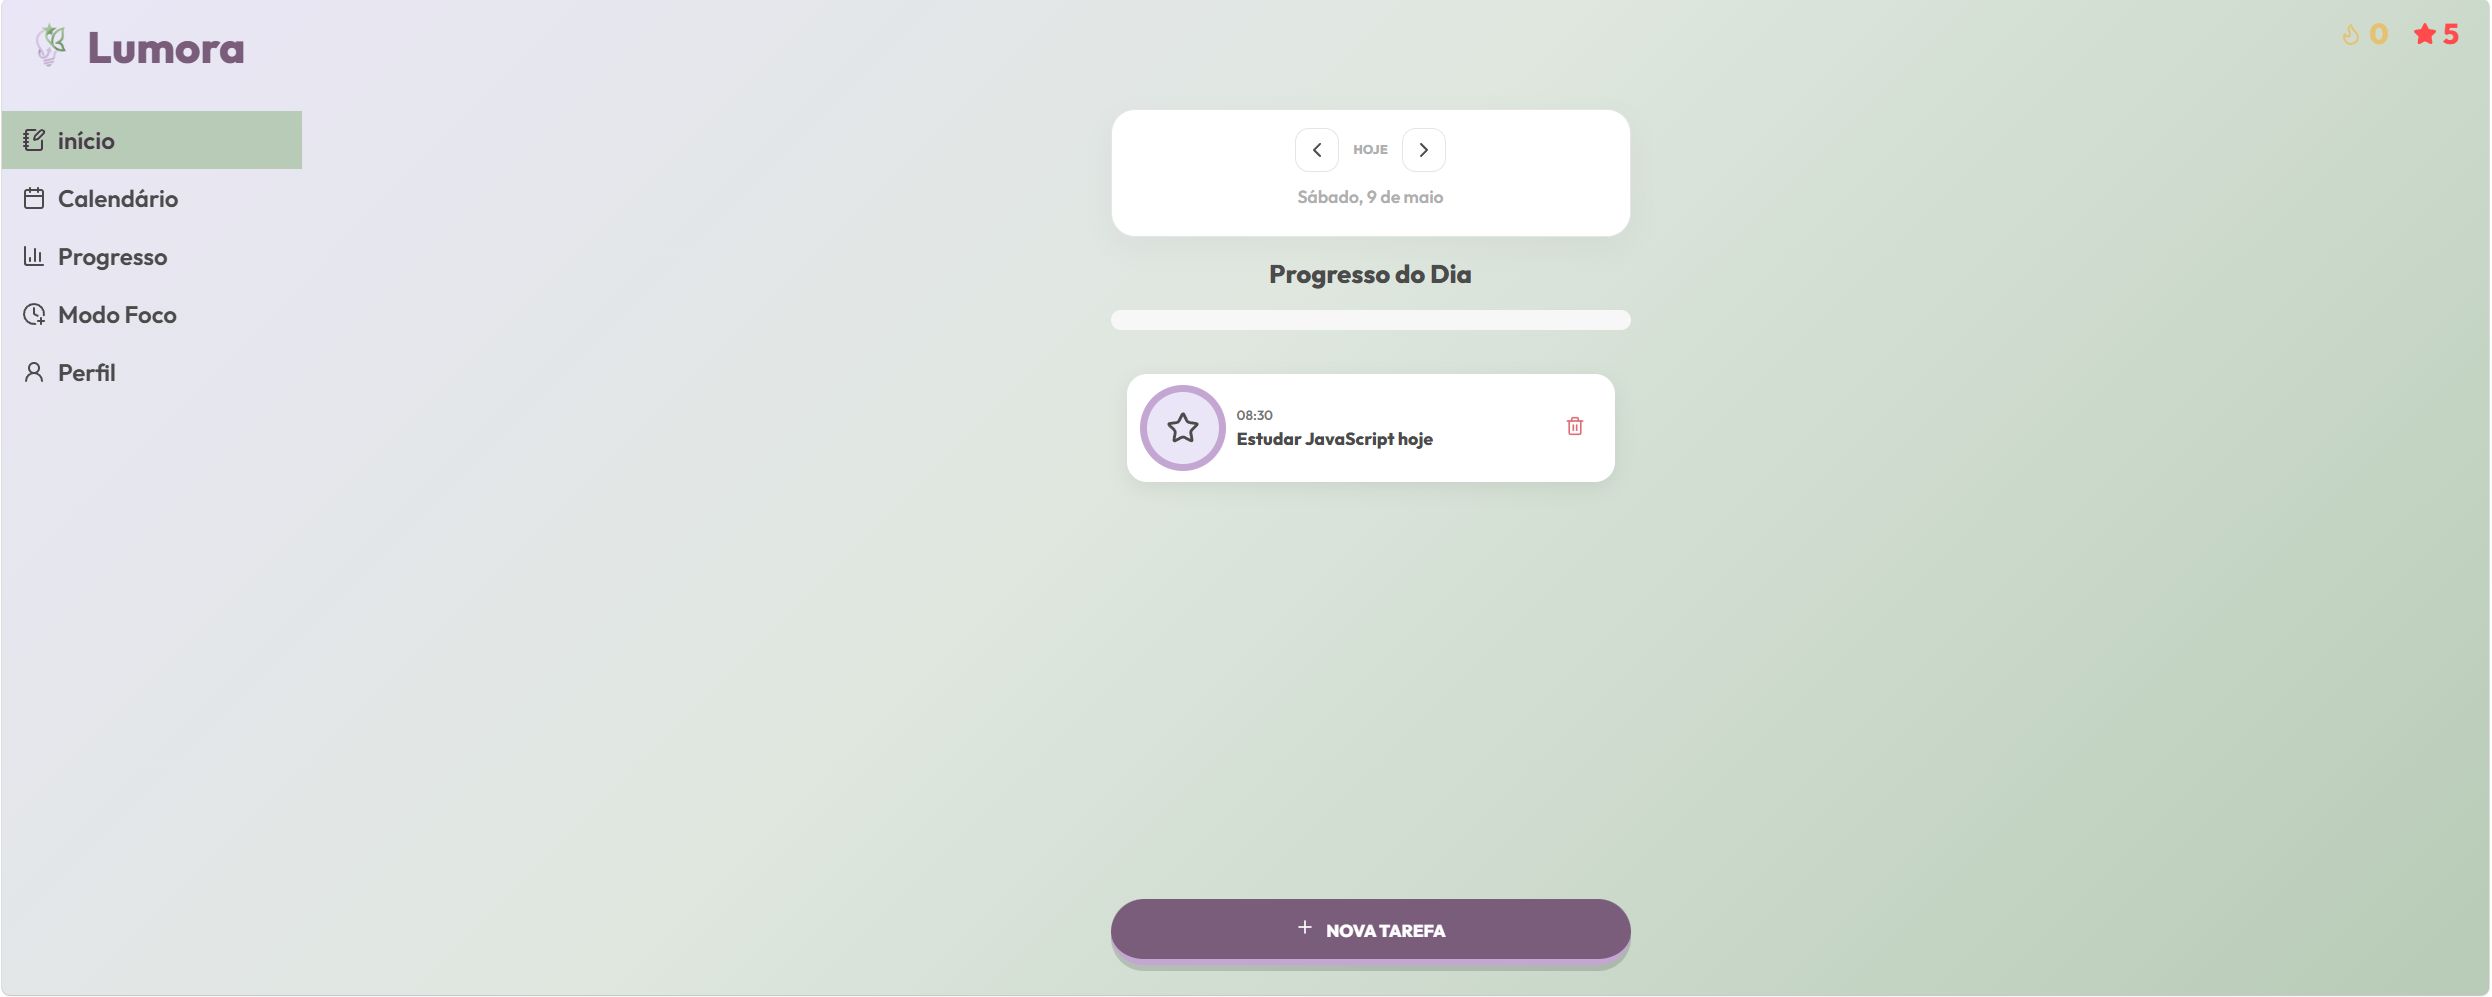
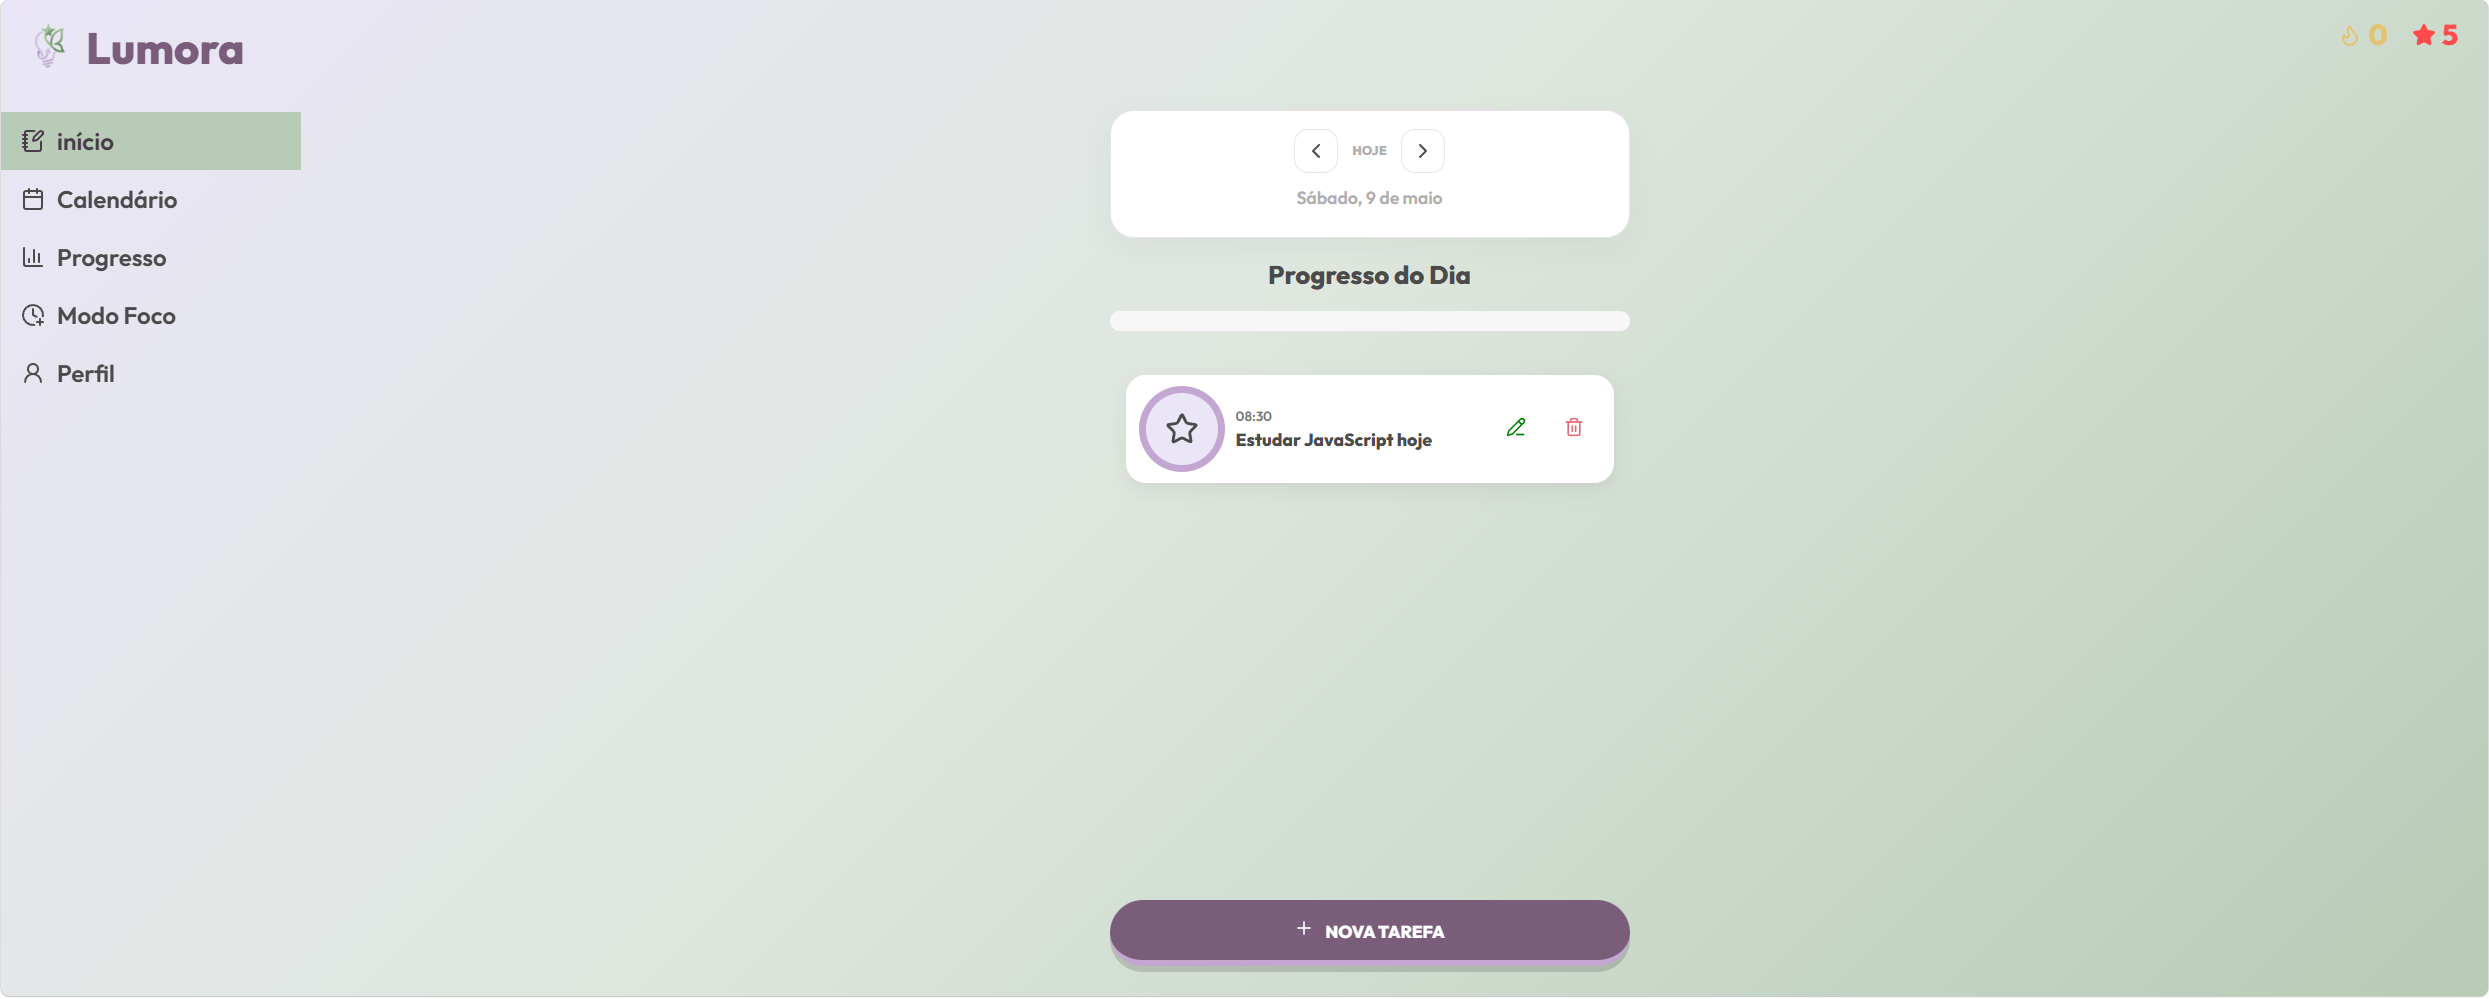
adicionando botao editar e mudando imagem

diff --git a/src/aplicacao/to-do-list/script.js b/src/aplicacao/to-do-list/script.js
@@ -240,10 +240,15 @@ function renderTasks() {
                 <div class="task-time">${task.time}</div>
                 <div class="task-title">${task.title}</div>
             </div>
-
+			
+			<button class="edit-btn" data-id="${task.id}" title="Editar">
+                <i data-lucide="pencil-line" style="width: 20px; height: 20px;"></i>
+            </button>
+			
             <button class="delete-btn" data-id="${task.id}" title="Excluir">
                 <i data-lucide="trash-2" style="width: 20px; height: 20px;"></i>
             </button>
+
         `;
 
         taskEl.querySelector('.task-node').addEventListener('click', () => toggleTask(task.id));

diff --git a/src/aplicacao/to-do-list/style.css b/src/aplicacao/to-do-list/style.css
@@ -371,6 +371,20 @@ main {
   color: #d32f2f;
 }
 
+.edit-btn {
+  background: none;
+  border: none;
+  color: green;
+  cursor: pointer;
+  padding: 10px;
+  border-radius: 12px;
+}
+
+.edit-btn:hover {
+  background: rgb(190, 241, 190);
+  color: green;
+}
+
 /* ====================== BOTÃO FLUTUANTE ====================== */
 .floating-action {
   position: fixed;
